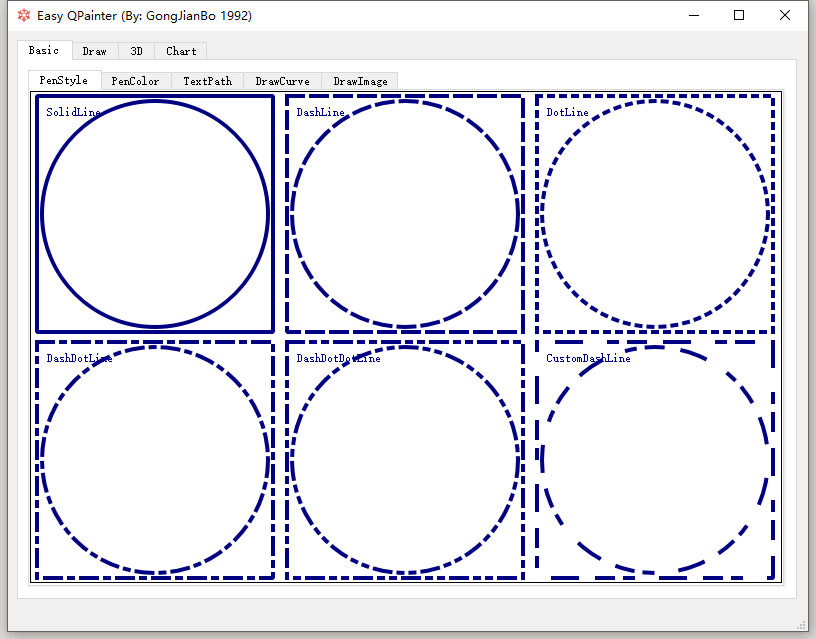
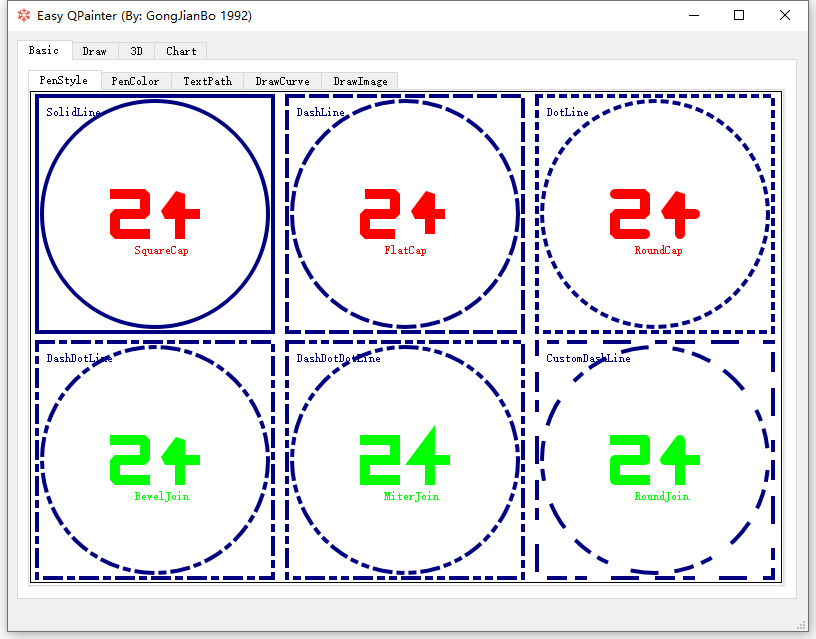
update penstyle

diff --git a/src/tabbasic/PenStyle.cpp b/src/tabbasic/PenStyle.cpp
@@ -14,13 +14,13 @@ PenStyle::PenStyle(QWidget *parent)
 
     //定时移动虚线偏移，制作蚂蚁线效果
     connect(&timer, &QTimer::timeout, this, [this]()
-            {
-                //虚线移动
-                ++dashOffset;
-                //模以dash总长度，防止越界等
-                dashOffset %= dashCount;
-                update();
-            });
+    {
+        //虚线移动
+        ++dashOffset;
+        //模以dash总长度，防止越界等
+        dashOffset %= dashCount;
+        update();
+    });
 }
 
 void PenStyle::showEvent(QShowEvent *event)
@@ -42,20 +42,33 @@ void PenStyle::paintEvent(QPaintEvent *event)
     //先画一个白底黑框
     painter.fillRect(this->rect(), Qt::white);
     QPen pen(Qt::black);
+    //SquareCap（默认）方形线端，覆盖端点（在端点延伸了半个线宽）
+    //FlatCap方形线端，不覆盖端点
+    //RoundCap圆角线端，覆盖端点
+    pen.setCapStyle(Qt::SquareCap);
+    //BevelJoin（默认）两线相交处截平
+    //MiterJoin两线相交处填充三角延申
+    //RoundJoin相交处圆角
+    pen.setJoinStyle(Qt::MiterJoin);
     painter.setPen(pen);
-    painter.drawRect(this->rect().adjusted(0, 0, -1, -1)); //右下角会超出范围
+    //右下角会超出范围
+    painter.drawRect(this->rect().adjusted(0, 0, -1, -1));
 
     //准备路径
     //item是元素可视大小,rect是元素整体整体占位大小
     const int rect_width = this->width() / 3; //（3*2个圆）
     const int rect_height = this->height() / 2;
+    const int center_x = rect_width / 2;
+    const int center_y = rect_height / 2;
+    //取最短边为边长为宽度（3*2个圆）
     const int item_width = ((this->width() / 3 < this->height() / 2)
-                                ? this->width() / 3
-                                : this->height() / 2) -
-                           10;                           //取最短边为边长为宽度（3*2个圆）
-    const int item_left = (rect_width - item_width) / 2; //item在rect的位置
+                            ? this->width() / 3
+                            : this->height() / 2) - 10;
+    //item在rect的位置
+    const int item_left = (rect_width - item_width) / 2;
     const int item_top = (rect_height - item_width) / 2;
-    QPainterPath path; //(一个圆加一个方框)
+    //(一个圆加一个方框)
+    QPainterPath path;
     path.addRect(item_left, item_top, item_width, item_width);
     //path.addEllipse(item_left, item_top, item_width-10, item_width-10);
     path.addEllipse(QPoint(rect_width / 2, rect_height / 2),
@@ -64,9 +77,11 @@ void PenStyle::paintEvent(QPaintEvent *event)
     //依次试用pen style枚举值
     pen.setColor(Qt::darkBlue); //原谅色
     //（如果线宽是奇数，直线抗锯齿会模糊，这是Qt的bug）
-    pen.setWidth(4);                               //宽度
-    painter.setRenderHint(QPainter::Antialiasing); //不开抗锯齿曲线有锯齿
-    painter.save();                                //保存位置，等会儿换行用restore恢复
+    pen.setWidth(4);  //线宽
+    //不开抗锯齿曲线有锯齿
+    painter.setRenderHint(QPainter::Antialiasing);
+    //保存位置，等会儿换行用restore恢复，然后下移画第二行
+    painter.save();
 
     //Qt::NoPen 啥都没有
     //Qt::SolidLine 实线，默认值
@@ -89,8 +104,11 @@ void PenStyle::paintEvent(QPaintEvent *event)
     painter.drawPath(path);
     painter.drawText(item_left + 10, item_top + 20, "DotLine");
 
+    //恢复位置后画准备第二行
+    painter.restore();
+    painter.save();
+
     //Qt::DashDotLine 混合
-    painter.restore(); //恢复位置
     pen.setStyle(Qt::DashDotLine);
     painter.setPen(pen);
     painter.translate(0, rect_height); //下移
@@ -110,9 +128,78 @@ void PenStyle::paintEvent(QPaintEvent *event)
     pen.setStyle(Qt::CustomDashLine);
     //参数奇数为线长度，偶数为线间隔（绘制的时候他好像没把线宽考虑进去）
     pen.setDashPattern(customDash);
-    pen.setDashOffset(dashOffset); //定时移动偏移，蚂蚁线效果
+    //定时移动偏移，蚂蚁线效果
+    pen.setDashOffset(dashOffset);
     painter.setPen(pen);
     painter.translate(rect_width, 0); //右移
     painter.drawPath(path);
     painter.drawText(item_left + 10, item_top + 20, "CustomDashLine");
+
+    //恢复位置准备画cap和join示意
+    painter.restore();
+    const int line_width = 10;
+    path = QPainterPath(); //低版本没有clear
+    path.moveTo(center_x - line_width * 4, center_y - line_width * 2);
+    path.lineTo(center_x - line_width * 1, center_y - line_width * 2);
+    path.lineTo(center_x - line_width * 1, center_y);
+    path.lineTo(center_x - line_width * 4, center_y);
+    path.lineTo(center_x - line_width * 4, center_y + line_width * 2);
+    path.lineTo(center_x - line_width * 1, center_y + line_width * 2);
+    path.moveTo(center_x + line_width * 4, center_y);
+    path.lineTo(center_x + line_width * 1, center_y);
+    path.lineTo(center_x + line_width * 2.5, center_y - line_width * 2);
+    path.lineTo(center_x + line_width * 2.5, center_y + line_width * 2);
+    pen.setStyle(Qt::SolidLine); //默认值
+    pen.setCapStyle(Qt::SquareCap); //默认值
+    pen.setJoinStyle(Qt::BevelJoin); //默认值
+    pen.setColor(Qt::red);
+    pen.setWidth(line_width);
+    //保存位置，等会儿换行用restore恢复，然后下移画第二行
+    painter.save();
+
+    //第一行CapStyle端点样式
+    pen.setCapStyle(Qt::SquareCap);
+    painter.setPen(pen);
+    painter.drawPath(path);
+    painter.drawText(center_x - 20, center_y + line_width * 4, "SquareCap");
+
+    pen.setCapStyle(Qt::FlatCap);
+    painter.setPen(pen);
+    painter.translate(rect_width, 0); //右移
+    painter.drawPath(path);
+    painter.drawText(center_x - 20, center_y + line_width * 4, "FlatCap");
+
+    pen.setCapStyle(Qt::RoundCap);
+    painter.setPen(pen);
+    painter.translate(rect_width, 0); //右移
+    painter.drawPath(path);
+    painter.drawText(center_x - 20, center_y + line_width * 4, "RoundCap");
+
+    //恢复位置后画准备第二行
+    painter.restore();
+    pen.setStyle(Qt::SolidLine); //默认值
+    pen.setCapStyle(Qt::SquareCap); //默认值
+    pen.setJoinStyle(Qt::BevelJoin); //默认值
+    pen.setColor(Qt::green);
+    painter.save();
+
+    //第二行画JoinStyle交点样式
+    pen.setJoinStyle(Qt::BevelJoin);
+    painter.setPen(pen);
+    painter.translate(0, rect_height); //下移
+    painter.drawPath(path);
+    painter.drawText(center_x - 20, center_y + line_width * 4, "BevelJoin");
+
+    pen.setJoinStyle(Qt::MiterJoin);
+    painter.setPen(pen);
+    painter.translate(rect_width, 0); //右移
+    painter.drawPath(path);
+    painter.drawText(center_x - 20, center_y + line_width * 4, "MiterJoin");
+
+    pen.setJoinStyle(Qt::RoundJoin);
+    painter.setPen(pen);
+    painter.translate(rect_width, 0); //右移
+    painter.drawPath(path);
+    painter.drawText(center_x - 20, center_y + line_width * 4, "RoundJoin");
+    painter.restore();
 }
